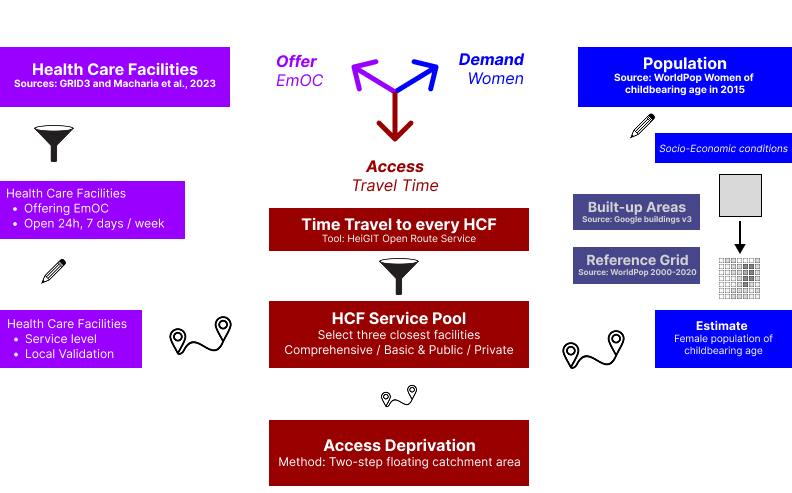
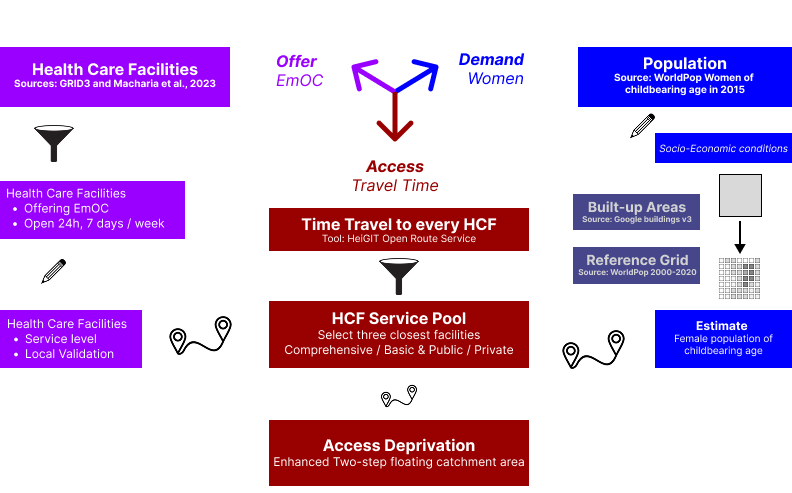
Updated related files of EmOC

Changed region(s): [[0.3333, 0.8824, 0.6667, 0.9736]]

diff --git a/models/emergency-maternal-care/kano/dataset-interpretability.md b/models/emergency-maternal-care/kano/dataset-interpretability.md
@@ -59,7 +59,7 @@ For the second stream, we used population counts from WorldPop: women of childbe
 
 For the second stream, we used population counts from WorldPop: women of childbearing age in 2015 and the reference grid from the general population count. and the open buildings V3 provided by Google. The team analysed various socio-economic conditions that communities highlighted during the participatory-action research sessions carried out with them. Unfortunately, none of them were adequately represented in the available datasets; only elements of income and employment were integrated in the first stream as relative weights. To fit the values of women of childbearing age, aggregated by 1km by 1km grid cells, the team used the number of buildings in the corresponding grid cells as the weighting factor to spread the values. Through that process, the team generated an estimate of the number of women of childbearing age. 
 
-The two streams were combined in two steps. First, we estimated how long it takes to travel from each spot on a grid (100m by 100m) to every health care facility. Based on these travel times, we linked each grid cell to the three nearest health care facilities that offer different levels of services (like public-comprehensive, public-basic, private-comprehensive, and private-public). Next, we used these links to create a synthetic index using the two-step floating catchment area (2SFCA) method, which connects the availability of services (like emergency obstetric care) with the population that needs them.
+The two streams were combined in two steps. First, we estimated how long it takes to travel from each spot on a grid (100m by 100m) to every health care facility. Based on these travel times, we linked each grid cell to the three nearest health care facilities that offer different levels of services (like public-comprehensive, public-basic, private-comprehensive, and private-public). Next, we used these links to create a synthetic index using the enhanced two-step floating catchment area (E2SFCA) method, which connects the availability of services (like emergency obstetric care) with the population that needs them.
 
 Once we calculated the synthetic index, we normalized the values to range from 0 to 1, where 0 means high access deprivation (hard to reach health care) and 1 means low access deprivation (easy access). To prepare the data for visualisation, we removed grid cells with no population and then sorted the remaining values into three categories with roughly the same number of grid cells in each.
 

diff --git a/models/emergency-maternal-care/lagos/dataset-interpretability.md b/models/emergency-maternal-care/lagos/dataset-interpretability.md
@@ -64,7 +64,7 @@ For the second stream, we used population counts from WorldPop: women of childbe
 
 For the second stream, we used population counts from WorldPop: women of childbearing age in 2015 and the reference grid from the general population count. and the open buildings V3 provided by Google. The team analysed various socio-economic conditions that communities highlighted during the participatory-action research sessions carried out with them. Unfortunately, none of them were adequately represented in the available datasets; only elements of income and employment were integrated in the first stream as relative weights. To fit the values of women of childbearing age, aggregated by 1km by 1km grid cells, the team used the number of buildings in the corresponding grid cells as the weighting factor to spread the values. Through that process, the team generated an estimate of the number of women of childbearing age. 
 
-The two streams were combined in two steps. First, we estimated how long it takes to travel from each spot on a grid (100m by 100m) to every health care facility. Based on these travel times, we linked each grid cell to the three nearest health care facilities that offer different levels of services (like public-comprehensive, public-basic, private-comprehensive, and private-public). Next, we used these links to create a synthetic index using the two-step floating catchment area (2SFCA) method, which connects the availability of services (like emergency obstetric care) with the population that needs them.
+The two streams were combined in two steps. First, we estimated how long it takes to travel from each spot on a grid (100m by 100m) to every health care facility. Based on these travel times, we linked each grid cell to the three nearest health care facilities that offer different levels of services (like public-comprehensive, public-basic, private-comprehensive, and private-public). Next, we used these links to create a synthetic index using the enhanced two-step floating catchment area (E2SFCA) method, which connects the availability of services (like emergency obstetric care) with the population that needs them.
 
 Once we calculated the synthetic index, we normalized the values to range from 0 to 1, where 0 means high access deprivation (hard to reach health care) and 1 means low access deprivation (easy access). To prepare the data for visualisation, we removed grid cells with no population and then sorted the remaining values into three categories with roughly the same number of grid cells in each.
 

diff --git a/models/emergency-maternal-care/nairobi/dataset-interpretability.md b/models/emergency-maternal-care/nairobi/dataset-interpretability.md
@@ -59,7 +59,7 @@ For the second stream, we used population counts from WorldPop: women of childbe
 
 For the second stream, we used population counts from WorldPop: women of childbearing age in 2015 and the reference grid from the general population count. and the open buildings V3 provided by Google. The team analysed various socio-economic conditions that communities highlighted during the participatory-action research sessions carried out with them. Unfortunately, none of them were adequately represented in the available datasets; only elements of income and employment were integrated in the first stream as relative weights. To fit the values of women of childbearing age, aggregated by 1km by 1km grid cells, the team used the number of buildings in the corresponding grid cells as the weighting factor to spread the values. Through that process, the team generated an estimate of the number of women of childbearing age. 
 
-The two streams were combined in two steps. First, we estimated how long it takes to travel from each spot on a grid (100m by 100m) to every health care facility. Based on these travel times, we linked each grid cell to the three nearest health care facilities that offer different levels of services (like public-comprehensive, public-basic, private-comprehensive, and private-public). Next, we used these links to create a synthetic index using the two-step floating catchment area (2SFCA) method, which connects the availability of services (like emergency obstetric care) with the population that needs them.
+The two streams were combined in two steps. First, we estimated how long it takes to travel from each spot on a grid (100m by 100m) to every health care facility. Based on these travel times, we linked each grid cell to the three nearest health care facilities that offer different levels of services (like public-comprehensive, public-basic, private-comprehensive, and private-public). Next, we used these links to create a synthetic index using the enhanced two-step floating catchment area (E2SFCA) method, which connects the availability of services (like emergency obstetric care) with the population that needs them.
 
 Once we calculated the synthetic index, we normalized the values to range from 0 to 1, where 0 means high access deprivation (hard to reach health care) and 1 means low access deprivation (easy access). To prepare the data for visualisation, we removed grid cells with no population and then sorted the remaining values into three categories with roughly the same number of grid cells in each.
 
